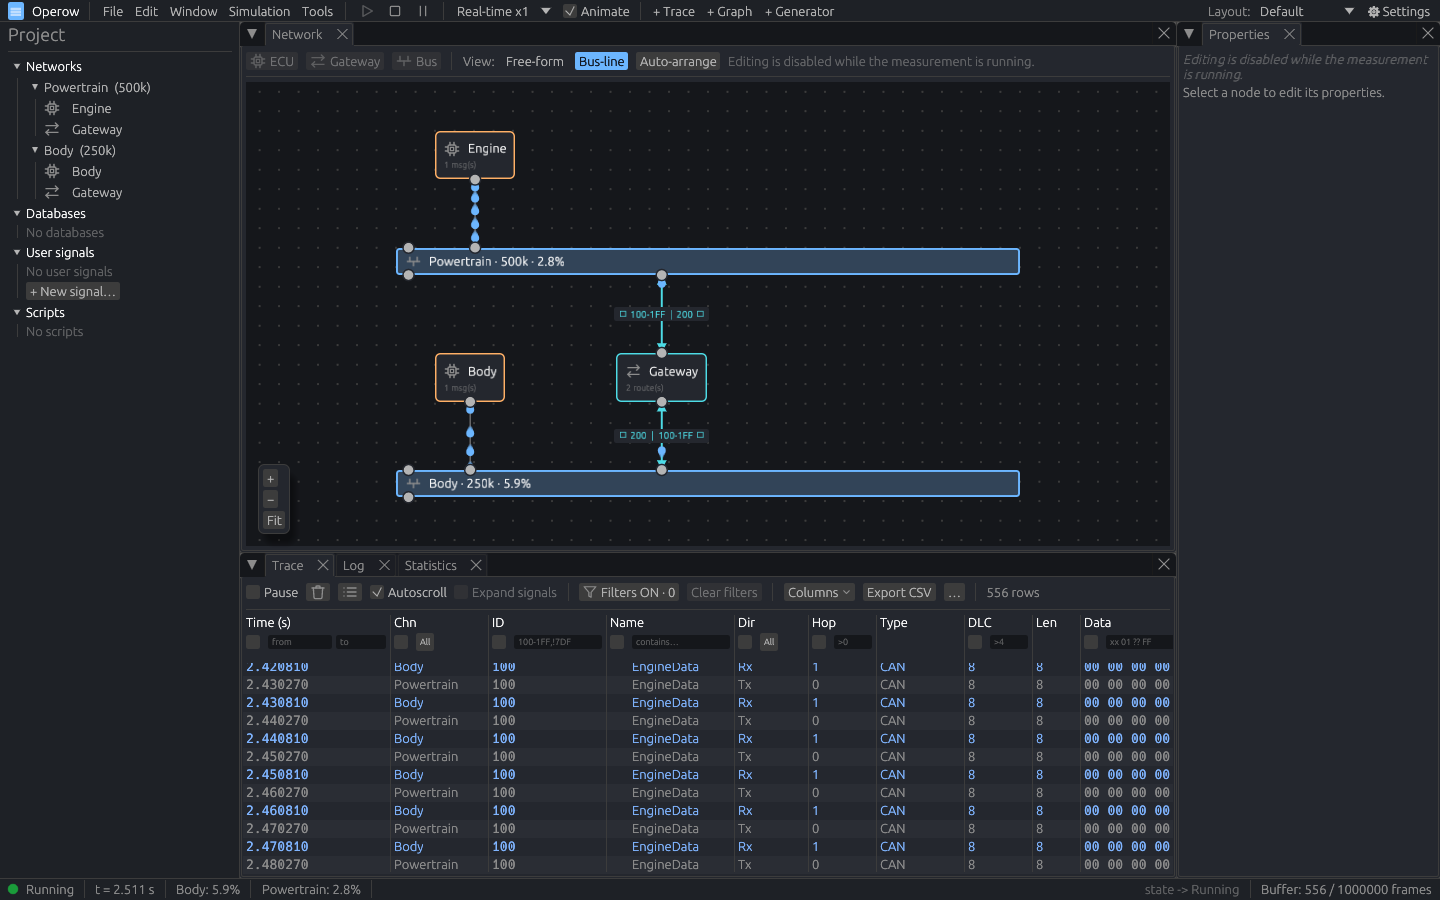
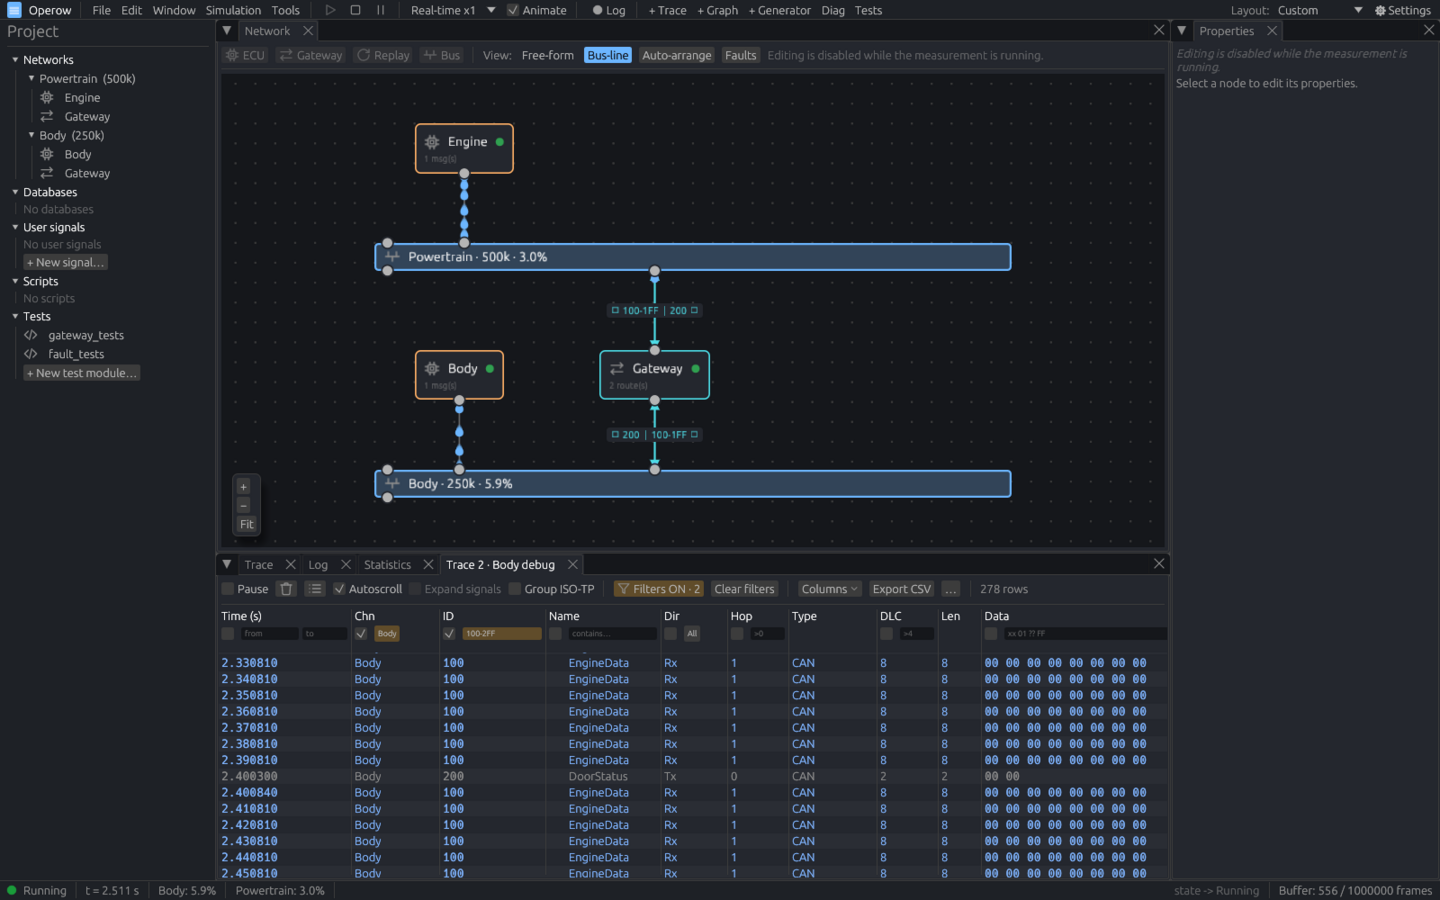
README: full feature list, updated roadmap and new tour GIF
Rewrites the Features section to cover logging and replay, faults and
node controls, diagnostics, testing and the CLI, and hardware interfaces;
marks the five completed roadmap phases as done and lists upcoming work;
updates the examples list. Re-records the feature tour GIF (11 scenes
from the current app) and the overview image.

Claude-Session: https://claude.ai/code/session_0179s1acFqYrgAtLbaaVebFU

diff --git a/README.md b/README.md
@@ -23,8 +23,12 @@ A CANoe-inspired ECU network simulator for automotive CAN / CAN FD design and te
 - Gateways with routing, ID remapping and delay between buses
 - Send types: Cyclic, Event, OnChange, CyclicIfActive and CyclicAndEvent
 - Rhai scripting (CAPL-like) for ECU behavior, with a live log
-- Interactive generators for raw and DBC-decoded frames
+- Interactive generators for raw frames and DBC-decoded messages and signals
 - Deterministic, event-driven timing
+- Error model: TEC / REC counters, error active / error passive / bus-off states with recovery
+- Fault injection (CRC, ACK, form errors and more) by probability, count or trigger
+- Nodes can be taken online / offline at run time
+- Per-message controls: pause, drop, delay and jitter
 
 ### Analysis
 
@@ -33,7 +37,32 @@ A CANoe-inspired ECU network simulator for automotive CAN / CAN FD design and te
 - Tx/Rx direction shown from the bus point of view
 - DBC decoding of frames and signals
 - Live graphs of DBC, user and raw signals
-- Bus statistics and CSV export
+- Bus statistics, including per-node error states, and CSV export
+
+### Logging & replay
+
+- Record ASC or BLF logs, with start/stop triggers and pre- and post-trigger buffering
+- Offline replay of ASC / BLF logs with seek, speed and loop
+- A Replay node injects a log into a running simulation
+- ASC to BLF and BLF to ASC conversion
+
+### Diagnostics
+
+- ISO-TP (ISO 15765-2) transport and UDS (ISO 14229) services
+- Simulated diagnostic ECUs with sessions, SecurityAccess, DIDs and DTCs
+- Diagnostics console and a DTC view
+- Trace can group ISO-TP segments into whole messages
+
+### Testing & automation
+
+- Rhai test modules run in virtual time, with a Tests window in the app
+- HTML, JUnit and JSON reports
+- `operow-cli` with `test`, `run`, `replay`, `convert` and `diag`, and CI-ready exit codes
+
+### Hardware
+
+- Bind a bus to a real or virtual interface: virtual loopback, UDP between processes, SocketCAN, Vector XL and PCAN-Basic
+- Vector XL and PCAN are tested against mocks only so far, not yet on real devices
 
 ### Workspace
 
@@ -75,6 +104,10 @@ Open them with File > Open.
 - `examples/gateway.operow.json`: Powertrain and Body buses joined by a routing gateway
 - `examples/dbc_demo.operow.json`: DBC-decoded traffic using `examples/sample.dbc`
 - `examples/script.operow.json`: Requester and Responder ECUs driven by Rhai scripts
+- `examples/replay_demo.operow.json`: a Replay node plays `examples/sample_log.asc` in a loop through a gateway onto the Powertrain and Body buses
+- `examples/diag_demo.operow.json`: Engine and Dashboard ECUs with a simulated UDS diagnostic server on the Engine, for the Diagnostics console
+- `examples/tests/`: Rhai test modules (`gateway_tests`, `dbc_tests`, `diag_tests`, `fault_tests`) referenced by the projects above
+- `examples/sample.dbc`, `examples/sample_log.asc` and `examples/sample_log.blf`: sample database and logs used by the examples
 
 ## Testing your network
 
@@ -158,12 +191,20 @@ The workspace consists of the following crates:
 
 ## Roadmap
 
-- Logging & replay
-- Error simulation & node controls
-- ISO-TP / UDS
-- Test sequences & headless CLI
-- Hardware: SocketCAN / PCAN / Vector
+Done:
+
+- ✅ Logging & replay
+- ✅ Error simulation & node controls
+- ✅ ISO-TP / UDS
+- ✅ Test sequences & headless CLI
+- ✅ Hardware interfaces: SocketCAN, PCAN, Vector (PCAN and Vector so far only mock-tested)
+
+Upcoming:
+
 - Ethernet / SOME-IP
+- LIN
+- Panels (user dashboards)
+- Hardware validation on real PCAN and Vector devices
 
 ## License
 
